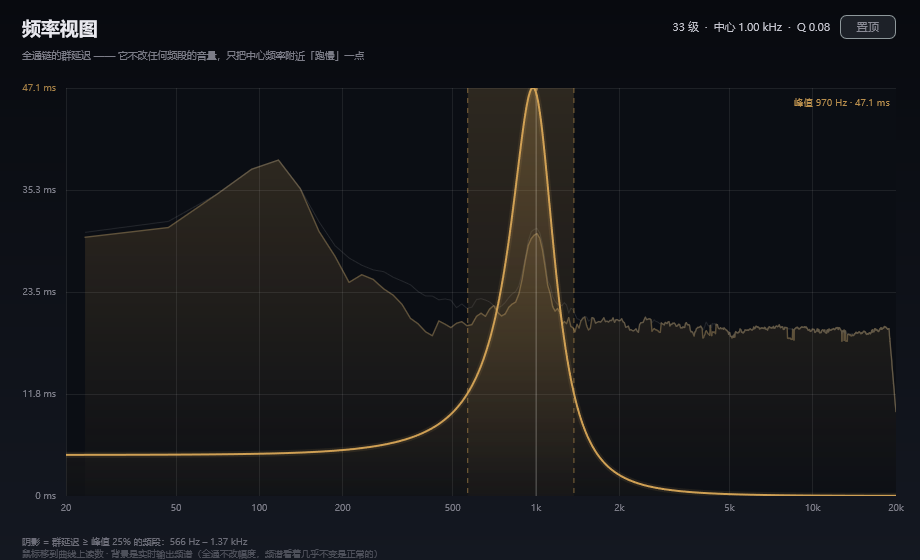
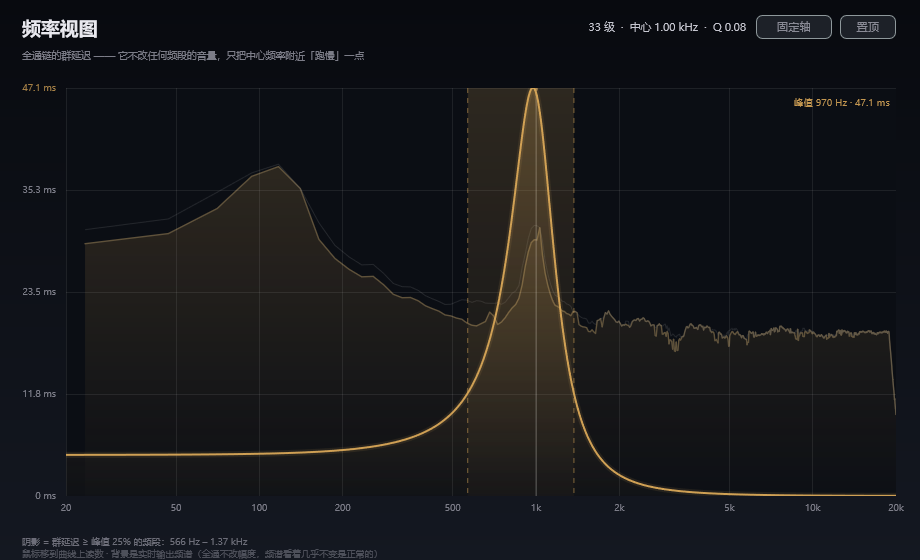
Prism v1.1.3 - lock the group-delay axis
- Frequency view: new 固定轴 toggle. On = freeze the delay axis at the current maximum so curves from different Q/intensity settings can be compared directly; off = back to auto-scaling.
- When the curve peak exceeds the locked axis, the peak readout turns orange and appends '↑ 超出轴'.
- The lock value lives on the processor (per plugin instance), not in the project state.
- Probe renders a third screenshot with the axis locked to 15 ms.
- Probe gained a crash reporter (.map + unhandled exception filter) while chasing an intermittent crash that turned out to be stale incremental objects; the build is now verified with a clean rebuild.

diff --git a/Source/FrequencyView.cpp b/Source/FrequencyView.cpp
@@ -156,12 +156,15 @@ public:
 
             const float peakHz = curve.hz[peakIndex];
 
-            const auto peakText = juce::String::fromUTF8 ("峰值 ")
-                                    + formatHz (peakHz) + juce::String::fromUTF8 (" · ") + formatMs (curve.peakMs);
+            const bool clipped = curve.peakMs > owner.getDisplayPeakMs() * 1.005f;
 
-            g.setColour (accentColour.withAlpha (0.85f * vis));
+            const auto peakText = juce::String::fromUTF8 ("峰值 ")
+                                    + formatHz (peakHz) + juce::String::fromUTF8 (" · ") + formatMs (curve.peakMs)
+                                    + (clipped ? juce::String::fromUTF8 ("  ↑ 超出轴") : juce::String());
+
+            g.setColour ((clipped ? juce::Colour (0xFFE8896B) : accentColour).withAlpha (0.9f * vis));
             g.setFont (prismFont (12.0f));
-            g.drawText (peakText, (int) (w - 230.0f), 6, 224, 16, juce::Justification::centredRight);
+            g.drawText (peakText, (int) (w - 290.0f), 6, 284, 16, juce::Justification::centredRight);
 
             // 过阻尼提示：峰明显低于中心频率时，直接说明原因和怎么调回来
             if (on && peakHz < owner.getCentreHz() * 0.5f)
@@ -309,6 +312,21 @@ FrequencyViewComponent::FrequencyViewComponent (PrismProcessor& processorToUse)
     };
     addAndMakeVisible (pinButton);
 
+    //--------------------------------------------------------------------------
+    // 延迟轴：开 = 锁住当前上限，便于 A/B 对比；关 = 回到自动缩放
+    //--------------------------------------------------------------------------
+    axisLockButton.setButtonText (juce::String::fromUTF8 ("固定轴"));
+    axisLockButton.setComponentID ("prismFreqViewAxisLock");
+    axisLockButton.setClickingTogglesState (true);
+    axisLockButton.setToggleState (processor.axisMaxMs.load() > 0.0f, juce::dontSendNotification);
+    axisLockButton.setColour (juce::TextButton::buttonColourId,   juce::Colour (0xFF1C2028));
+    axisLockButton.setColour (juce::TextButton::buttonOnColourId, juce::Colour (0x33D8A657));
+    axisLockButton.setColour (juce::TextButton::textColourOffId,  juce::Colour (0xFF8A8B96));
+    axisLockButton.setColour (juce::TextButton::textColourOnId,   juce::Colour (0xFFE8C07A));
+    axisLockButton.setTooltip (juce::String::fromUTF8 ("开启：把延迟轴上限锁在当前值，不同 Q / 强度下的曲线高度可以直接对比；关闭：恢复自动缩放"));
+    axisLockButton.onClick = [this] { toggleAxisLock(); };
+    addAndMakeVisible (axisLockButton);
+
     curveLayer = std::make_unique<CurveLayer> (*this);
     addAndMakeVisible (*curveLayer);
 
@@ -322,8 +340,32 @@ FrequencyViewComponent::FrequencyViewComponent (PrismProcessor& processorToUse)
 FrequencyViewComponent::~FrequencyViewComponent() = default;
 
 //==============================================================================
+void FrequencyViewComponent::toggleAxisLock()
+{
+    if (axisLockButton.getToggleState())
+    {
+        // 锁在"当前屏幕上看到的上限"，打开这一刻画面不跳
+        processor.axisMaxMs.store (getDisplayPeakMs());
+    }
+    else
+    {
+        processor.axisMaxMs.store (0.0f);
+    }
+
+    if (curveLayer != nullptr)
+        curveLayer->repaint();
+
+    repaint();
+}
+
+//==============================================================================
 float FrequencyViewComponent::getDisplayPeakMs() const noexcept
 {
+    const float locked = processor.axisMaxMs.load();
+
+    if (locked > 0.0f)
+        return locked;
+
     return juce::jmax (0.05f, smoothedPeakMs);
 }
 
@@ -421,10 +463,15 @@ void FrequencyViewComponent::updateFromParams (bool force)
 //==============================================================================
 void FrequencyViewComponent::timerCallback()
 {
+
+
     updateFromParams (false);
+
 
     // 实时频谱：每帧都要刷
     spectrum.update();
+
+
     spectrum.repaint();
 
     // 纵轴峰值平滑（扫 Q / 扫强度时坐标轴不跳）。差得很小时直接吸附，
@@ -453,11 +500,13 @@ void FrequencyViewComponent::resized()
     curveLayer->setBounds (plot.toNearestInt());
 
     pinButton.setBounds (getWidth() - 24 - 56, 15, 56, 24);
+    axisLockButton.setBounds (pinButton.getX() - 8 - 76, 15, 76, 24);
 }
 
 //==============================================================================
 void FrequencyViewComponent::paint (juce::Graphics& g)
 {
+
     const auto bounds = getLocalBounds().toFloat();
 
     //--------------------------------------------------------------------------
@@ -478,9 +527,9 @@ void FrequencyViewComponent::paint (juce::Graphics& g)
     g.setColour (textColour);
     g.setFont (prismFont (13.5f));
     {
-        // 右侧留给「置顶」按钮
-        const int infoRight = (int) bounds.getWidth() - 24 - 56 - 10;
-        const int infoWidth = juce::jlimit (120, 340, infoRight - 200);
+        // 右侧依次是：信息文字 · 固定轴 · 置顶
+        const int infoRight = axisLockButton.getX() - 10;
+        const int infoWidth = juce::jlimit (100, 340, infoRight - 200);
 
         g.drawText (headerInfo(),
                     juce::Rectangle<int> (infoRight - infoWidth, 16, infoWidth, 22),

diff --git a/tools/PrismEditorProbe.cpp b/tools/PrismEditorProbe.cpp
@@ -81,10 +81,41 @@ namespace
 }
 
 //==============================================================================
+//==============================================================================
+// 崩溃定位：打印异常码 + 相对于 exe 基址的偏移，配合 .map 文件就能查到函数
+#if JUCE_WINDOWS
+ #include <windows.h>
+
+static LONG WINAPI reportCrash (EXCEPTION_POINTERS* info)
+{
+    auto* base = (char*) GetModuleHandle (nullptr);
+    auto* addr = (char*) info->ExceptionRecord->ExceptionAddress;
+
+    std::printf ("\n!! unhandled exception code=0x%08lX offset=0x%llX (base=%p)\n",
+                 (unsigned long) info->ExceptionRecord->ExceptionCode,
+                 (unsigned long long) (addr - base), base);
+    std::fflush (stdout);
+    return EXCEPTION_EXECUTE_HANDLER;
+}
+#endif
+
+//==============================================================================
 int main()
 {
     setvbuf (stdout, nullptr, _IONBF, 0);   // 崩溃时也能看到进度
 
+   #if JUCE_WINDOWS
+    SetUnhandledExceptionFilter (reportCrash);
+   #endif
+
+    std::set_terminate ([] {
+        std::printf ("\n!! std::terminate (uncaught C++ exception?)\n");
+        std::fflush (stdout);
+        std::_Exit (97);
+    });
+
+    try
+    {
     juce::ScopedJuceInitialiser_GUI init;
 
     PrismProcessor processor;
@@ -507,10 +538,13 @@ int main()
     //   Q=0.08      —— 欠阻尼，峰收回中心频率
     //--------------------------------------------------------------------------
     {
-        auto renderView = [] (float qValue, const juce::String& fileName, const char* label)
+        auto renderView = [] (float qValue, float axisMaxMs, const juce::String& fileName, const char* label)
         {
+
             PrismProcessor fx;
+
             fx.prepareToPlay (48000.0, 512);
+            fx.axisMaxMs.store (axisMaxMs);
 
             auto setParam = [&fx] (const char* id, float value)
             {
@@ -528,12 +562,11 @@ int main()
             double phase = 0.0;
 
             FrequencyViewComponent view (fx);
-            std::printf ("[freqview] constructed\n");
             view.setSize (920, 560);
-            std::printf ("[freqview] sized\n");
 
             for (int block = 0; block < 90; ++block)
             {
+
                 for (int i = 0; i < buffer.getNumSamples(); ++i)
                 {
                     phase += juce::MathConstants<double>::twoPi * 110.0 / 48000.0;
@@ -548,8 +581,11 @@ int main()
 
                 fx.processBlock (buffer, midi);
 
+                
+
                 if (auto* mm = juce::MessageManager::getInstance())
                     mm->runDispatchLoopUntil (12);
+                
             }
 
             const auto snap = view.createComponentSnapshot (view.getLocalBounds(), true, 1.0f);
@@ -565,9 +601,21 @@ int main()
             }
         };
 
-        renderView (0.08f, "ui-frequency-view.png", "Q=0.08");
-        renderView (0.50f, "ui-frequency-view-damped.png", "Q=0.50");
+        renderView (0.08f, 15.0f, "ui-frequency-view-locked.png", "Q=0.08 lock 15ms");
+        renderView (0.08f, 0.0f,  "ui-frequency-view.png", "Q=0.08");
+        renderView (0.50f, 0.0f,  "ui-frequency-view-damped.png", "Q=0.50");
     }
 
     return 0;
+    }
+    catch (const std::exception& e)
+    {
+        std::printf ("\n!! exception: %s\n", e.what());
+        return 98;
+    }
+    catch (...)
+    {
+        std::printf ("\n!! unknown exception\n");
+        return 99;
+    }
 }

diff --git a/Source/AboutOverlay.cpp b/Source/AboutOverlay.cpp
@@ -47,7 +47,7 @@ void AboutOverlay::paint (juce::Graphics& g)
 
     g.setColour (juce::Colour (0xFF8A8B96));
     g.setFont (juce::Font (juce::FontOptions ("Microsoft YaHei UI", 14.0f, juce::Font::plain)));
-    g.drawText (juce::String::fromUTF8 ("PRISM  ·  ALL-PASS DISPERSION  ·  v1.1.2"),
+    g.drawText (juce::String::fromUTF8 ("PRISM  ·  ALL-PASS DISPERSION  ·  v1.1.3"),
                 juce::Rectangle<float> (128.0f, 18.0f, 300.0f, 22.0f),
                 juce::Justification::centredLeft);
 
@@ -72,7 +72,7 @@ void AboutOverlay::paint (juce::Graphics& g)
                           "右上角「总开关」旁通：射线会收回棱镜\n"
                           "右上角「频率视图」：另开窗口看群延迟分布\n"
                           "\n"
-                          "Yunshu_TSK　·　v1.1.2　·　2026　·　GPLv3 开源\n"
+                          "Yunshu_TSK　·　v1.1.3　·　2026　·　GPLv3 开源\n"
                           "space.bilibili.com/1394063758\n"
                           "100% DeepSeek 4.1 Flash 制作\n"
                           "DSP 参考 AllPassPhase by enummusic（按算法重写，未使用其代码）\n"

diff --git a/Source/PrismProcessor.h b/Source/PrismProcessor.h
@@ -1,4 +1,4 @@
-#pragma once
+#pragma once
 
 #include <juce_audio_processors/juce_audio_processors.h>
 #include "DispersionEngine.h"
@@ -68,6 +68,10 @@ public:
 
     // 给 GUI 用：输出电平（0..1，已做快起慢落），驱动背景的光强度
     std::atomic<float> meterLevel { 0.0f };
+
+    // 给 GUI 用：频率视图的延迟轴上限（毫秒），0 = 自动跟着峰值走。
+    // 不是参数、不进状态 —— 只是窗口的观察习惯，插件实例活着就记着。
+    std::atomic<float> axisMaxMs { 0.0f };
 
     //--------------------------------------------------------------------------
     // 频谱可视化用：输出信号的单声道混合，写进环形缓冲，界面线程来取

diff --git a/Source/FrequencyView.h b/Source/FrequencyView.h
@@ -50,8 +50,12 @@ private:
     SpectrumDisplay spectrum;
     std::unique_ptr<CurveLayer> curveLayer;
 
-    // 置顶开关：不置顶时点回宿主，窗口会被 FX 窗口盖住
+    // 置顶开关：不置顶时点回宿主窗口会被 FX 窗口盖住
     juce::TextButton pinButton;
+
+    // 延迟轴：关 = 跟着当前峰值自动缩放；开 = 锁在按下那一刻的上限
+    juce::TextButton axisLockButton;
+    void toggleAxisLock();
 
     dispersion::Curve curve;
     double sampleRate = 48000.0;

diff --git a/README.md b/README.md
@@ -31,6 +31,8 @@
 - 欠阻尼（Q 小）时，曲线峰值落在「频率」旋钮的位置，两侧快速回落 —— 这就是被"捏"得最狠的频段
 - 阴影 = 群延迟 ≥ 峰值 25% 的频段，窗口底部直接写出上下限
 - 鼠标移到曲线上：读出「频率 · 延迟 · 级数」
+- **「固定轴」开关**：开启后延迟轴上限锁在当前值，不同 Q、不同强度下的曲线高度可以直接对比；
+  峰值超出轴范围时读数变橙并标「↑ 超出轴」，再点一下恢复自动缩放
 - 背景是实时输出频谱：全通**不改变幅度**，所以频谱看着几乎不变是正常的，改的只有时间
 
 **Q 不只调峰宽，也调峰的位置。** Q 越大，分母的阻尼越大，两个极点从共轭复数分裂成实数

diff --git a/CHANGELOG.md b/CHANGELOG.md
@@ -3,6 +3,13 @@
 仓库保留完整提交历史，每个版本都打了 tag、并在 GitHub Releases 里放了对应的 VST3 包。
 这一页只是把「改了什么、为什么改」按版本整理成能直接读的记录。
 
+## v1.1.3 — 2026-11-15
+
+- 频率视图新增「固定轴」开关：开启后把延迟轴上限锁在按下那一刻的数值，不同 Q / 强度下的
+  曲线高度可以直接对比；再点一下恢复自动缩放。峰值超出轴范围时，右上角读数变橙并标「↑ 超出轴」
+  - 设置记在插件实例上（关掉窗口再开仍保留），不进工程状态
+
+
 ## v1.1.2 — 2026-11-15 16:46
 
 - 频率视图改成**插件窗口的附属窗口**（Windows owner 关系），不再全局置顶
